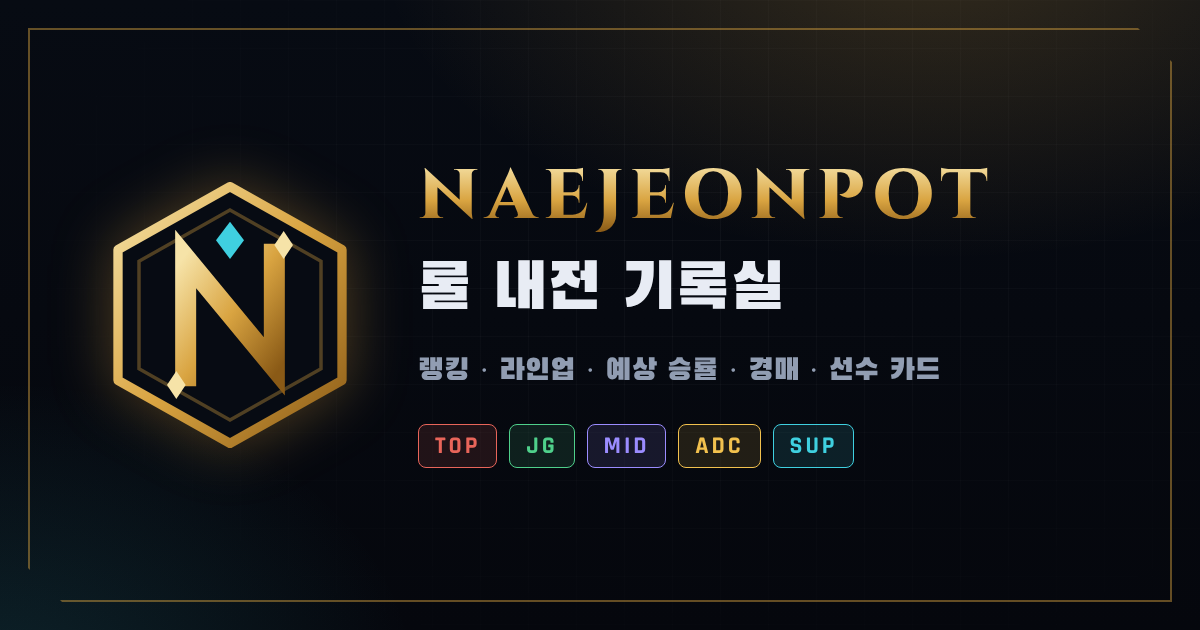
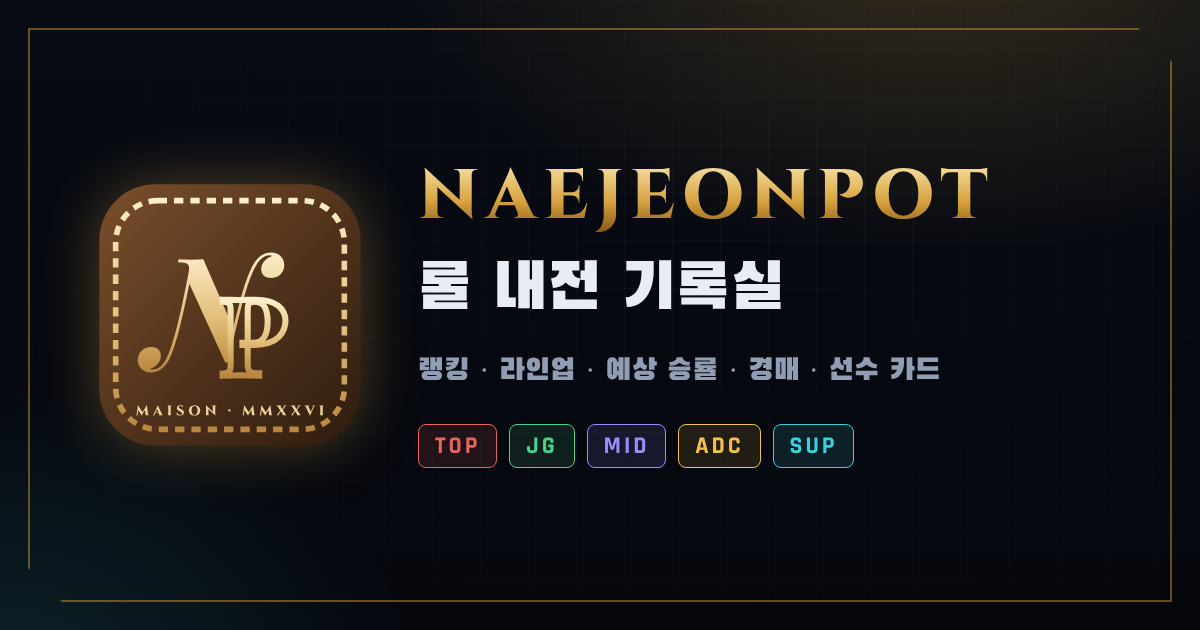
로고를 메종 모노그램(가죽 바탕 + 금박 N·P)으로 교체
사이드바·시작 화면·홈·선수 카드 뒷면 로고, 파비콘, 링크 미리보기 이미지.
글자는 웹 글꼴 없이도 같게 보이도록 도형(path)으로 넣음.

Claude-Session: https://claude.ai/code/session_01Mu36w3DwBnNQPkr9uVveii

Changed region(s): [[0.0617, 0.2714, 0.3083, 0.7238]]

diff --git a/js/core.js b/js/core.js
@@ -75,13 +75,22 @@ const L = {
 };
 export const LANE_ICON = Object.fromEntries(LANES.map((l) => [l, `<svg class="lic l-${l}" viewBox="0 0 24 24" fill="currentColor" aria-hidden="true">${L[l]}</svg>`]));
 export const LANE_COLOR = { top: '#f08a4b', jg: '#4fd08b', mid: '#9b8cff', adc: '#ff6b81', sup: '#3fd0e0' };
+// 로고: 메종 모노그램(가죽 바탕 + 금박 N·P). 글자는 글꼴 없이도 똑같이 보이도록 도형(path)으로 넣었다(Playfair Display·Cinzel에서 추출).
+// anim=true 이면 시작 화면에서 테두리·P가 그려지고 N·무늬가 떠오른다. 90px 이상일 때만 아래 작은 글씨(MAISON · MMXXVI)를 넣는다.
+const LG_N = 'M59.34 80.31L57.97 80.31L42.23 45.84Q42.23 45.84 42.23 45.34Q42.23 44.85 42.20 44.26Q42.16 43.67 42.13 43.17Q42.10 42.68 42.10 42.68L42.10 42.68Q42.60 40.38 42.44 39.30Q42.29 38.21 41.20 37.81Q40.12 37.41 37.70 37.34L37.70 37.34L38.01 36.10Q39.00 36.17 40.46 36.23Q41.92 36.29 43.53 36.29L43.53 36.29Q46.44 36.29 48.55 36.10L48.55 36.10L61.70 66.24Q61.70 66.24 61.51 67.26Q61.32 68.28 61.04 69.86Q60.77 71.44 60.52 73.27Q60.27 75.10 59.99 76.68Q59.71 78.26 59.53 79.29Q59.34 80.31 59.34 80.31L59.34 80.31ZM77.01 34.43L77.01 34.43Q75.40 34.43 74.09 35.36Q72.79 36.29 71.80 37.72L71.80 37.72Q68.95 41.93 65.97 52.53Q63.00 63.14 59.34 80.31L59.34 80.31L58.47 78.57Q59.40 74.42 60.45 69.61Q61.51 64.81 62.72 59.97Q63.93 55.14 65.20 50.74Q66.47 46.33 67.86 42.83Q69.26 39.33 70.69 37.22L70.69 37.22Q71.86 35.55 73.47 34.40Q75.09 33.25 77.38 33.25L77.38 33.25Q80.23 33.25 81.75 34.80Q83.27 36.35 83.27 38.52L83.27 38.52Q83.27 40.88 81.69 42.52Q80.11 44.16 77.63 44.16L77.63 44.16Q75.58 44.16 74.47 43.14Q73.35 42.12 73.35 40.51L73.35 40.51Q73.35 38.40 74.72 36.82Q76.08 35.24 78.00 34.68L78.00 34.68Q77.88 34.55 77.60 34.49Q77.32 34.43 77.01 34.43ZM26.73 83.41L26.73 83.41Q28.40 83.41 29.70 82.51Q31.01 81.61 31.94 80.06L31.94 80.06Q33.73 77.21 35.56 71.13Q37.39 65.06 39.28 56.44Q41.17 47.82 43.09 37.53L43.09 37.53L44.15 38.83Q43.16 43.92 42.07 49.16Q40.99 54.39 39.87 59.39Q38.76 64.38 37.58 68.65Q36.40 72.93 35.22 76.06Q34.04 79.19 32.93 80.68L32.93 80.68Q31.81 82.17 30.29 83.38Q28.77 84.59 26.29 84.59L26.29 84.59Q23.50 84.59 21.98 83.04Q20.46 81.49 20.46 79.32L20.46 79.32Q20.46 76.90 22.08 75.29Q23.69 73.68 26.11 73.68L26.11 73.68Q28.21 73.68 29.30 74.70Q30.39 75.72 30.39 77.33L30.39 77.33Q30.39 79.44 29.02 80.99Q27.66 82.54 25.67 83.16L25.67 83.16Q25.86 83.29 26.11 83.35Q26.36 83.41 26.73 83.41Z';
+const LG_P = 'M56.82 54.35L56.82 53.43Q57.97 53.48 59.93 53.52Q61.88 53.57 63.81 53.57L63.81 53.57Q66.02 53.57 68.09 53.52Q70.16 53.48 71.03 53.48L71.03 53.48Q77.43 53.48 80.60 56.01Q83.78 58.54 83.78 62.54L83.78 62.54Q83.78 64.20 83.13 66.01Q82.49 67.83 80.95 69.37Q79.41 70.91 76.74 71.88Q74.07 72.84 70.02 72.84L70.02 72.84L65.33 72.84L65.33 71.92L69.56 71.92Q72.28 71.92 73.68 70.68Q75.08 69.44 75.61 67.42Q76.14 65.39 76.14 63.05L76.14 63.05Q76.14 58.68 74.85 56.51Q73.56 54.35 70.44 54.35L70.44 54.35Q68.64 54.35 68.11 55.13Q67.58 55.92 67.58 58.31L67.58 58.31L67.58 80.85Q67.58 82.64 67.95 83.52Q68.32 84.39 69.38 84.67Q70.44 84.94 72.51 84.99L72.51 84.99L72.51 86Q71.08 85.95 68.83 85.91Q66.57 85.86 64.09 85.86L64.09 85.86Q62.11 85.86 60.22 85.91Q58.34 85.95 56.82 86L56.82 86L56.82 85.08Q58.29 84.99 59.03 84.71Q59.77 84.44 60.02 83.61Q60.27 82.78 60.27 81.12L60.27 81.12L60.27 58.31Q60.27 56.61 60.02 55.80Q59.77 55.00 59.01 54.70Q58.25 54.40 56.82 54.35L56.82 54.35Z';
+const LG_M = 'M21.92 102.56L24.33 98.72L24.37 99.45L22.50 102.45Q22.50 102.45 22.44 102.56Q22.38 102.66 22.32 102.82Q22.26 102.98 22.26 103.13L22.26 103.13L22.21 103.13L21.92 102.56ZM20.01 102.56L20.14 102.56L20.14 103L19.47 103L19.47 102.94Q19.48 102.94 19.52 102.94Q19.57 102.94 19.57 102.94L19.57 102.94Q19.73 102.94 19.86 102.84Q19.98 102.74 20.01 102.56L20.01 102.56ZM20.39 102.66L20.43 102.66Q20.43 102.66 20.43 102.67Q20.43 102.68 20.43 102.69L20.43 102.69Q20.43 102.78 20.50 102.86Q20.57 102.95 20.67 102.95L20.67 102.95L20.76 102.95L20.76 103L20.39 103L20.39 102.66ZM19.95 103L20.52 98.72L20.57 98.72L20.82 99.40L20.39 103L19.95 103ZM20.41 100.38L20.57 98.72L22.61 101.77L22.21 103.13L20.41 100.38ZM24.33 98.72L24.38 98.72L24.97 103L23.85 103L23.55 100.53L24.33 98.72ZM24.78 103L24.78 102.56L24.91 102.56Q24.94 102.74 25.07 102.84Q25.19 102.94 25.35 102.94L25.35 102.94Q25.35 102.94 25.40 102.94Q25.44 102.94 25.45 102.94L25.45 102.94L25.45 103L24.78 103ZM23.81 102.66L23.81 102.66L23.85 102.66L23.85 103L23.48 103L23.48 102.95L23.58 102.95Q23.67 102.95 23.74 102.86Q23.81 102.78 23.81 102.69L23.81 102.69Q23.81 102.68 23.81 102.67Q23.81 102.66 23.81 102.66ZM28.61 100.01L29.06 98.67L31.07 102.96L29.81 102.96L28.61 100.01ZM27.32 102.56L27.77 102.56Q27.71 102.68 27.74 102.77Q27.77 102.85 27.85 102.89Q27.92 102.94 28.00 102.94L28.00 102.94L28.05 102.94L28.05 103L26.74 103L26.74 102.94Q26.74 102.94 26.76 102.94Q26.79 102.94 26.79 102.94L26.79 102.94Q26.93 102.94 27.07 102.85Q27.22 102.77 27.32 102.56L27.32 102.56ZM29.00 98.67L29.06 98.67L29.06 99.50L27.58 102.98L27.12 102.98L28.68 99.51Q28.71 99.47 28.75 99.36Q28.80 99.24 28.86 99.11Q28.91 98.98 28.96 98.86Q29.00 98.74 29.00 98.67L29.00 98.67ZM27.88 101.64L29.62 101.64L29.62 101.91L27.88 101.91L27.88 101.64ZM29.65 102.56L29.65 102.56L30.88 102.56Q30.98 102.77 31.13 102.85Q31.27 102.94 31.41 102.94L31.41 102.94Q31.41 102.94 31.43 102.94Q31.46 102.94 31.46 102.94L31.46 102.94L31.46 103L29.36 103L29.36 102.94L29.42 102.94Q29.54 102.94 29.63 102.84Q29.72 102.74 29.65 102.56ZM33.53 98.80L34.59 98.80L34.59 103L33.53 103L33.53 98.80ZM33.53 102.56L33.54 102.56L33.54 103L33.06 103L33.06 102.94Q33.06 102.94 33.10 102.94Q33.14 102.94 33.14 102.94L33.14 102.94Q33.30 102.94 33.41 102.83Q33.52 102.72 33.53 102.56L33.53 102.56ZM33.54 98.80L33.54 99.24L33.53 99.24Q33.52 99.08 33.41 98.97Q33.30 98.86 33.14 98.86L33.14 98.86Q33.14 98.86 33.10 98.86Q33.06 98.86 33.06 98.86L33.06 98.86L33.06 98.80L33.54 98.80ZM34.57 103L34.57 102.56L34.59 102.56Q34.59 102.72 34.70 102.83Q34.82 102.94 34.97 102.94L34.97 102.94Q34.97 102.94 35.01 102.94Q35.04 102.94 35.05 102.94L35.05 102.94L35.05 103L34.57 103ZM34.59 99.24L34.57 99.24L34.57 98.80L35.05 98.80L35.05 98.86Q35.04 98.86 35.01 98.86Q34.97 98.86 34.97 98.86L34.97 98.86Q34.82 98.86 34.70 98.97Q34.59 99.08 34.59 99.24L34.59 99.24ZM38.58 98.72L38.58 98.72Q38.70 98.72 38.90 98.73Q39.10 98.74 39.31 98.76Q39.52 98.78 39.69 98.80Q39.85 98.82 39.90 98.85L39.90 98.85L39.81 99.71L39.75 99.71Q39.75 99.39 39.50 99.19Q39.26 98.99 38.85 98.99L38.85 98.99Q38.49 98.99 38.27 99.14Q38.06 99.30 38.05 99.53L38.05 99.53Q38.03 99.73 38.17 99.86Q38.32 99.98 38.52 100.09L38.52 100.09L39.66 100.73Q39.96 100.88 40.13 101.15Q40.29 101.42 40.27 101.80L40.27 101.80Q40.24 102.42 39.78 102.75Q39.32 103.08 38.53 103.08L38.53 103.08Q38.23 103.08 37.96 103.04Q37.70 102.99 37.50 102.90Q37.30 102.81 37.19 102.71L37.19 102.71Q37.14 102.57 37.14 102.36Q37.15 102.16 37.21 101.96Q37.27 101.76 37.36 101.63L37.36 101.63L37.41 101.63Q37.39 101.94 37.53 102.21Q37.68 102.48 37.96 102.65Q38.24 102.81 38.63 102.81L38.63 102.81Q39.04 102.80 39.26 102.62Q39.47 102.43 39.47 102.18L39.47 102.18Q39.47 101.99 39.34 101.83Q39.21 101.68 38.91 101.54L38.91 101.54L37.90 100.96Q37.53 100.77 37.37 100.47Q37.20 100.16 37.24 99.78L37.24 99.78Q37.27 99.45 37.44 99.21Q37.61 98.97 37.90 98.84Q38.19 98.72 38.58 98.72ZM39.11 98.78L39.91 98.78L39.90 98.90L39.11 98.90L39.11 98.78ZM44.81 98.72L44.81 98.72Q45.56 98.72 46.10 98.98Q46.65 99.24 46.94 99.73Q47.24 100.22 47.24 100.90L47.24 100.90Q47.24 101.58 46.94 102.07Q46.65 102.56 46.10 102.82Q45.56 103.08 44.81 103.08L44.81 103.08Q44.06 103.08 43.52 102.82Q42.97 102.56 42.68 102.07Q42.38 101.58 42.38 100.90L42.38 100.90Q42.38 100.22 42.68 99.73Q42.97 99.24 43.52 98.98Q44.06 98.72 44.81 98.72ZM44.81 102.81L44.81 102.81Q45.20 102.81 45.49 102.58Q45.77 102.35 45.93 101.92Q46.08 101.49 46.08 100.90L46.08 100.90Q46.08 100.31 45.93 99.88Q45.77 99.45 45.49 99.22Q45.20 98.99 44.81 98.99L44.81 98.99Q44.41 98.99 44.13 99.22Q43.85 99.45 43.70 99.88Q43.54 100.31 43.54 100.90L43.54 100.90Q43.54 101.49 43.70 101.92Q43.85 102.35 44.13 102.58Q44.41 102.81 44.81 102.81ZM49.77 99.47L49.70 98.71L53.64 102.33L53.71 103.08L49.77 99.47ZM49.71 102.57L49.73 102.57L49.73 103L49.23 103L49.23 102.94Q49.23 102.94 49.29 102.94Q49.34 102.94 49.35 102.94L49.35 102.94Q49.50 102.94 49.61 102.83Q49.71 102.72 49.71 102.57L49.71 102.57ZM50.74 102.57L50.76 102.57Q50.76 102.72 50.87 102.83Q50.97 102.94 51.12 102.94L51.12 102.94Q51.13 102.94 51.18 102.94Q51.24 102.94 51.24 102.94L51.24 102.94L51.24 103L50.74 103L50.74 102.57ZM49.64 98.71L49.70 98.71L50.75 99.82L50.76 103L49.71 103L49.71 99.46Q49.71 99.12 49.68 98.91Q49.64 98.71 49.64 98.71L49.64 98.71ZM52.65 98.80L53.69 98.80L53.69 102.32Q53.69 102.55 53.71 102.72Q53.73 102.90 53.75 102.99Q53.76 103.08 53.76 103.08L53.76 103.08L53.71 103.08L52.65 101.90L52.65 98.80ZM53.67 98.80L54.17 98.80L54.17 98.86Q54.17 98.86 54.12 98.86Q54.06 98.86 54.06 98.86L54.06 98.86Q53.91 98.86 53.81 98.97Q53.70 99.07 53.69 99.23L53.69 99.23L53.67 99.23L53.67 98.80ZM52.17 98.86L52.17 98.80L52.67 98.80L52.67 99.23L52.65 99.23Q52.65 99.07 52.54 98.97Q52.44 98.86 52.28 98.86L52.28 98.86Q52.28 98.86 52.23 98.86Q52.17 98.86 52.17 98.86L52.17 98.86ZM59.72 101.36L59.72 101.36Q59.53 101.36 59.38 101.22Q59.24 101.07 59.24 100.88L59.24 100.88Q59.24 100.67 59.38 100.53Q59.53 100.39 59.72 100.39L59.72 100.39Q59.93 100.39 60.07 100.53Q60.21 100.67 60.21 100.88L60.21 100.88Q60.21 101.07 60.07 101.22Q59.93 101.36 59.72 101.36ZM67.47 102.56L69.88 98.72L69.93 99.45L68.05 102.45Q68.05 102.45 67.99 102.56Q67.93 102.66 67.87 102.82Q67.81 102.98 67.81 103.13L67.81 103.13L67.76 103.13L67.47 102.56ZM65.56 102.56L65.69 102.56L65.69 103L65.02 103L65.02 102.94Q65.03 102.94 65.07 102.94Q65.12 102.94 65.12 102.94L65.12 102.94Q65.28 102.94 65.41 102.84Q65.53 102.74 65.56 102.56L65.56 102.56ZM65.94 102.66L65.98 102.66Q65.98 102.66 65.98 102.67Q65.98 102.68 65.98 102.69L65.98 102.69Q65.98 102.78 66.05 102.86Q66.12 102.95 66.22 102.95L66.22 102.95L66.31 102.95L66.31 103L65.94 103L65.94 102.66ZM65.50 103L66.07 98.72L66.12 98.72L66.37 99.40L65.94 103L65.50 103ZM65.96 100.38L66.12 98.72L68.16 101.77L67.76 103.13L65.96 100.38ZM69.88 98.72L69.93 98.72L70.52 103L69.40 103L69.10 100.53L69.88 98.72ZM70.33 103L70.33 102.56L70.47 102.56Q70.50 102.74 70.62 102.84Q70.74 102.94 70.90 102.94L70.90 102.94Q70.90 102.94 70.95 102.94Q70.99 102.94 71.00 102.94L71.00 102.94L71.00 103L70.33 103ZM69.36 102.66L69.36 102.66L69.40 102.66L69.40 103L69.03 103L69.03 102.95L69.13 102.95Q69.22 102.95 69.29 102.86Q69.36 102.78 69.36 102.69L69.36 102.69Q69.36 102.68 69.36 102.67Q69.36 102.66 69.36 102.66ZM74.84 102.56L77.24 98.72L77.29 99.45L75.42 102.45Q75.42 102.45 75.36 102.56Q75.30 102.66 75.24 102.82Q75.18 102.98 75.18 103.13L75.18 103.13L75.13 103.13L74.84 102.56ZM72.92 102.56L73.06 102.56L73.06 103L72.39 103L72.39 102.94Q72.40 102.94 72.44 102.94Q72.49 102.94 72.49 102.94L72.49 102.94Q72.65 102.94 72.77 102.84Q72.90 102.74 72.92 102.56L72.92 102.56ZM73.31 102.66L73.35 102.66Q73.35 102.66 73.35 102.67Q73.35 102.68 73.35 102.69L73.35 102.69Q73.35 102.78 73.42 102.86Q73.49 102.95 73.58 102.95L73.58 102.95L73.68 102.95L73.68 103L73.31 103L73.31 102.66ZM72.86 103L73.43 98.72L73.49 98.72L73.73 99.40L73.31 103L72.86 103ZM73.33 100.38L73.49 98.72L75.53 101.77L75.13 103.13L73.33 100.38ZM77.24 98.72L77.30 98.72L77.89 103L76.76 103L76.47 100.53L77.24 98.72ZM77.70 103L77.70 102.56L77.83 102.56Q77.86 102.74 77.98 102.84Q78.11 102.94 78.27 102.94L78.27 102.94Q78.27 102.94 78.31 102.94Q78.36 102.94 78.37 102.94L78.37 102.94L78.37 103L77.70 103ZM76.73 102.66L76.73 102.66L76.77 102.66L76.77 103L76.40 103L76.40 102.95L76.49 102.95Q76.59 102.95 76.66 102.86Q76.73 102.78 76.73 102.69L76.73 102.69Q76.73 102.68 76.73 102.67Q76.73 102.66 76.73 102.66ZM80.16 98.80L81.39 98.80L84.13 102.99L82.88 102.99L80.16 98.80ZM80.37 102.59L80.92 102.57Q80.87 102.65 80.89 102.74Q80.91 102.83 80.98 102.88Q81.05 102.94 81.13 102.94L81.13 102.94Q81.13 102.94 81.17 102.94Q81.21 102.94 81.21 102.94L81.21 102.94L81.21 103L79.69 103L79.69 102.94L79.77 102.94Q79.97 102.94 80.12 102.83Q80.27 102.72 80.37 102.59L80.37 102.59ZM80.08 103L81.63 100.85L81.96 101.06L80.62 103L80.08 103ZM82.61 102.57L82.61 102.57L83.87 102.59Q83.96 102.73 84.12 102.83Q84.29 102.94 84.47 102.94L84.47 102.94L84.56 102.94L84.56 103L82.32 103L82.32 102.94Q82.32 102.94 82.36 102.94Q82.40 102.94 82.40 102.94L82.40 102.94Q82.52 102.94 82.60 102.82Q82.68 102.70 82.61 102.57ZM79.74 98.80L81.96 98.80L81.96 98.86Q81.96 98.86 81.92 98.86Q81.89 98.86 81.89 98.86L81.89 98.86Q81.80 98.86 81.74 98.92Q81.67 98.97 81.65 99.06Q81.63 99.15 81.68 99.23L81.68 99.23L80.43 99.21Q80.33 99.08 80.17 98.97Q80.01 98.86 79.82 98.86L79.82 98.86L79.74 98.86L79.74 98.80ZM83.39 98.80L83.93 98.80L82.47 100.98L82.21 100.64L83.39 98.80ZM82.82 98.80L84.33 98.80L84.33 98.86L84.25 98.86Q84.06 98.86 83.91 98.97Q83.75 99.08 83.65 99.21L83.65 99.21L83.11 99.23Q83.16 99.15 83.14 99.06Q83.12 98.97 83.05 98.92Q82.98 98.86 82.90 98.86L82.90 98.86Q82.90 98.86 82.86 98.86Q82.83 98.86 82.83 98.86L82.83 98.86L82.82 98.80ZM86.26 98.80L87.50 98.80L90.24 102.99L88.98 102.99L86.26 98.80ZM86.48 102.59L87.03 102.57Q86.97 102.65 86.99 102.74Q87.01 102.83 87.09 102.88Q87.16 102.94 87.24 102.94L87.24 102.94Q87.24 102.94 87.27 102.94Q87.31 102.94 87.31 102.94L87.31 102.94L87.31 103L85.80 103L85.80 102.94L85.88 102.94Q86.07 102.94 86.22 102.83Q86.37 102.72 86.48 102.59L86.48 102.59ZM86.19 103L87.73 100.85L88.07 101.06L86.73 103L86.19 103ZM88.71 102.57L88.71 102.57L89.97 102.59Q90.06 102.73 90.23 102.83Q90.39 102.94 90.58 102.94L90.58 102.94L90.66 102.94L90.66 103L88.43 103L88.43 102.94Q88.43 102.94 88.47 102.94Q88.50 102.94 88.50 102.94L88.50 102.94Q88.63 102.94 88.71 102.82Q88.79 102.70 88.71 102.57ZM85.84 98.80L88.06 98.80L88.06 98.86Q88.06 98.86 88.03 98.86Q87.99 98.86 87.99 98.86L87.99 98.86Q87.91 98.86 87.84 98.92Q87.78 98.97 87.75 99.06Q87.73 99.15 87.79 99.23L87.79 99.23L86.53 99.21Q86.44 99.08 86.28 98.97Q86.12 98.86 85.93 98.86L85.93 98.86L85.84 98.86L85.84 98.80ZM89.49 98.80L90.03 98.80L88.57 100.98L88.32 100.64L89.49 98.80ZM88.93 98.80L90.44 98.80L90.44 98.86L90.36 98.86Q90.17 98.86 90.01 98.97Q89.86 99.08 89.76 99.21L89.76 99.21L89.22 99.23Q89.27 99.15 89.25 99.06Q89.22 98.97 89.16 98.92Q89.09 98.86 89.01 98.86L89.01 98.86Q89.01 98.86 88.97 98.86Q88.93 98.86 88.93 98.86L88.93 98.86L88.93 98.80ZM94.73 101.79L94.28 103.13L92.25 98.84L93.51 98.84L94.73 101.79ZM94.34 103.13L94.28 103.13L94.27 102.30L95.77 98.82L96.23 98.82L94.66 102.29Q94.63 102.33 94.58 102.44Q94.54 102.56 94.48 102.69Q94.43 102.82 94.39 102.94Q94.34 103.06 94.34 103.13L94.34 103.13ZM96.04 99.24L95.59 99.24Q95.67 99.06 95.57 98.96Q95.48 98.86 95.36 98.86L95.36 98.86L95.30 98.86L95.30 98.80L96.62 98.80L96.62 98.86Q96.62 98.86 96.59 98.86Q96.56 98.86 96.56 98.86L96.56 98.86Q96.43 98.86 96.28 98.95Q96.14 99.03 96.04 99.24L96.04 99.24ZM93.68 99.24L93.68 99.24L92.44 99.24Q92.35 99.03 92.20 98.95Q92.05 98.86 91.91 98.86L91.91 98.86Q91.91 98.86 91.89 98.86Q91.87 98.86 91.87 98.86L91.87 98.86L91.87 98.80L93.96 98.80L93.96 98.86L93.91 98.86Q93.79 98.86 93.70 98.96Q93.62 99.06 93.68 99.24ZM98.69 98.80L99.75 98.80L99.75 103L98.69 103L98.69 98.80ZM98.69 102.56L98.71 102.56L98.71 103L98.23 103L98.23 102.94Q98.23 102.94 98.27 102.94Q98.31 102.94 98.31 102.94L98.31 102.94Q98.46 102.94 98.57 102.83Q98.69 102.72 98.69 102.56L98.69 102.56ZM98.71 98.80L98.71 99.24L98.69 99.24Q98.69 99.08 98.57 98.97Q98.46 98.86 98.31 98.86L98.31 98.86Q98.31 98.86 98.27 98.86Q98.23 98.86 98.23 98.86L98.23 98.86L98.23 98.80L98.71 98.80ZM99.74 103L99.74 102.56L99.75 102.56Q99.76 102.72 99.87 102.83Q99.98 102.94 100.14 102.94L100.14 102.94Q100.14 102.94 100.17 102.94Q100.21 102.94 100.22 102.94L100.22 102.94L100.22 103L99.74 103ZM99.75 99.24L99.74 99.24L99.74 98.80L100.22 98.80L100.22 98.86Q100.21 98.86 100.17 98.86Q100.14 98.86 100.14 98.86L100.14 98.86Q99.98 98.86 99.87 98.97Q99.76 99.08 99.75 99.24L99.75 99.24Z';
 export function logo(anim = false, size = 44) {
-  return `<svg class="logo ${anim ? 'draw' : ''}" width="${size}" height="${size}" viewBox="0 0 120 120" fill="none" aria-label="NAEJEONPOT">
-    <defs><linearGradient id="lg-g" x1="0" y1="0" x2="1" y2="1"><stop offset="0" stop-color="#f6e3a8"/><stop offset=".5" stop-color="#d9a441"/><stop offset="1" stop-color="#8a5a16"/></linearGradient></defs>
-    <path class="lg-hex" pathLength="1" d="M60 5 108 32v56L60 115 12 88V32z" stroke="url(#lg-g)" stroke-width="4" stroke-linejoin="round"/>
-    <path class="lg-in" pathLength="1" d="M60 15 99 37v46L60 105 21 83V37z" stroke="#d9a441" stroke-opacity=".35" stroke-width="1.500"/>
-    <path class="lg-n" pathLength="1" d="M41 86V36l38 46V34" stroke="url(#lg-g)" stroke-width="9" stroke-linejoin="miter" stroke-linecap="square"/>
-    <path class="lg-gem" d="M60 20l6 8-6 8-6-8z" fill="#3fd0e0"/><path class="lg-gem" d="M79 30l4-6 4 6-4 6zM41 90l-4 6-4-6 4-6z" fill="#f6e3a8"/>
+  return `<svg class="logo maison ${anim ? 'draw' : ''}" width="${size}" height="${size}" viewBox="0 0 120 120" fill="none" aria-label="NAEJEONPOT">
+    <defs><linearGradient id="lg-l" x1="0" y1="0" x2="1" y2="1"><stop offset="0" stop-color="#7a4f2d"/><stop offset=".55" stop-color="#4f311b"/><stop offset="1" stop-color="#2e1c0f"/></linearGradient>
+      <linearGradient id="lg-g" x1="0" y1="0" x2="0" y2="1"><stop offset="0" stop-color="#fbeec8"/><stop offset=".55" stop-color="#e2be78"/><stop offset="1" stop-color="#b8863f"/></linearGradient>
+      <pattern id="lg-pt" width="20" height="20" patternUnits="userSpaceOnUse"><path d="M10 6l1.2 2.8L14 10l-2.8 1.2L10 14l-1.2-2.8L6 10l2.8-1.2z" fill="#e2c07c" opacity=".2"/><circle r="1.3" fill="#e2c07c" opacity=".16"/><circle cx="20" cy="20" r="1.3" fill="#e2c07c" opacity=".16"/></pattern></defs>
+    <rect x="6" y="6" width="108" height="108" rx="22" fill="url(#lg-l)"/><rect class="lg-gem" x="6" y="6" width="108" height="108" rx="22" fill="url(#lg-pt)"/>
+    <path class="lg-hex" pathLength="1" d="M28 7H92A21 21 0 0 1 113 28V92A21 21 0 0 1 92 113H28A21 21 0 0 1 7 92V28A21 21 0 0 1 28 7Z" stroke="url(#lg-g)" stroke-width="1.6" stroke-opacity=".75"/>
+    <rect class="lg-gem" x="12" y="12" width="96" height="96" rx="17" stroke="url(#lg-g)" stroke-width="1.5" stroke-dasharray="3 2.4"/>
+    <path class="lg-gem lg-mn" d="${LG_N}" fill="url(#lg-g)"/>
+    <path class="lg-n lg-mp" pathLength="1" d="${LG_P}" stroke="url(#lg-g)" stroke-width="2"/>
+    ${size >= 90 ? `<path class="lg-gem" d="${LG_M}" fill="#ecd29a"/>` : ''}
   </svg>`;
 }
 

diff --git a/index.html b/index.html
@@ -18,7 +18,7 @@
 <meta property="og:image:alt" content="NAEJEONPOT 롤 내전 기록실">
 <meta property="og:locale" content="ko_KR">
 <meta name="twitter:card" content="summary_large_image">
-<link rel="icon" type="image/svg+xml" href="favicon.svg">
+<link rel="icon" type="image/svg+xml" href="favicon.svg?v=2">
 <link rel="preconnect" href="https://ddragon.leagueoflegends.com">
 <link rel="preconnect" href="https://fonts.googleapis.com">
 <link rel="preconnect" href="https://fonts.gstatic.com" crossorigin>
@@ -33,7 +33,7 @@
 <link rel="modulepreload" href="js/social.js"><link rel="modulepreload" href="js/xmas.js"><link rel="modulepreload" href="js/newyear.js"><link rel="modulepreload" href="js/today.js"><link rel="modulepreload" href="js/board.js">
 <link rel="modulepreload" href="js/dice.js"><link rel="modulepreload" href="js/reveal.js"><link rel="modulepreload" href="js/talk.js"><link rel="modulepreload" href="js/players.js"><link rel="modulepreload" href="js/admin.js">
 <link rel="modulepreload" href="js/auction.js"><link rel="modulepreload" href="js/replay.js"><link rel="modulepreload" href="js/maker.js"><link rel="modulepreload" href="js/hook.js">
-<link rel="stylesheet" href="css/style.css?v=20261117c">
+<link rel="stylesheet" href="css/style.css?v=20261117d">
 </head>
 <body>
 <div id="splash"></div>

diff --git a/css/style.css b/css/style.css
@@ -23,7 +23,7 @@ code{background:var(--panel2);padding:1px 6px;border-radius:5px;font-family:var(
 #side{position:fixed;inset:0 auto 0 0;width:var(--sw);background:linear-gradient(180deg,#080d17,#05080e);border-right:1px solid var(--line);padding:16px 12px 12px;display:flex;flex-direction:column;gap:10px;overflow-y:auto;z-index:6}
 #side::after{content:"";position:absolute;inset:0 0 auto 0;height:2px;background:linear-gradient(90deg,transparent,var(--gold),transparent);opacity:.7}
 .brand{display:flex;gap:10px;align-items:center;padding:2px 4px 8px}
-.brand .logo{filter:drop-shadow(0 0 10px rgba(217,164,65,.35));transition:transform .5s}.brand:hover .logo{transform:rotate(60deg)}
+.brand .logo{filter:drop-shadow(0 0 10px rgba(217,164,65,.35));transition:transform .4s}.brand:hover .logo{transform:rotate(-6deg) scale(1.06)}
 .bt{display:flex;flex-direction:column;min-width:0}
 .bt b{font:800 15px/1.1 "Cinzel",serif;letter-spacing:.12em}.bt b i{font-style:normal;color:var(--gold)}
 .bt small{white-space:nowrap;overflow:hidden;text-overflow:ellipsis;margin-top:3px}
